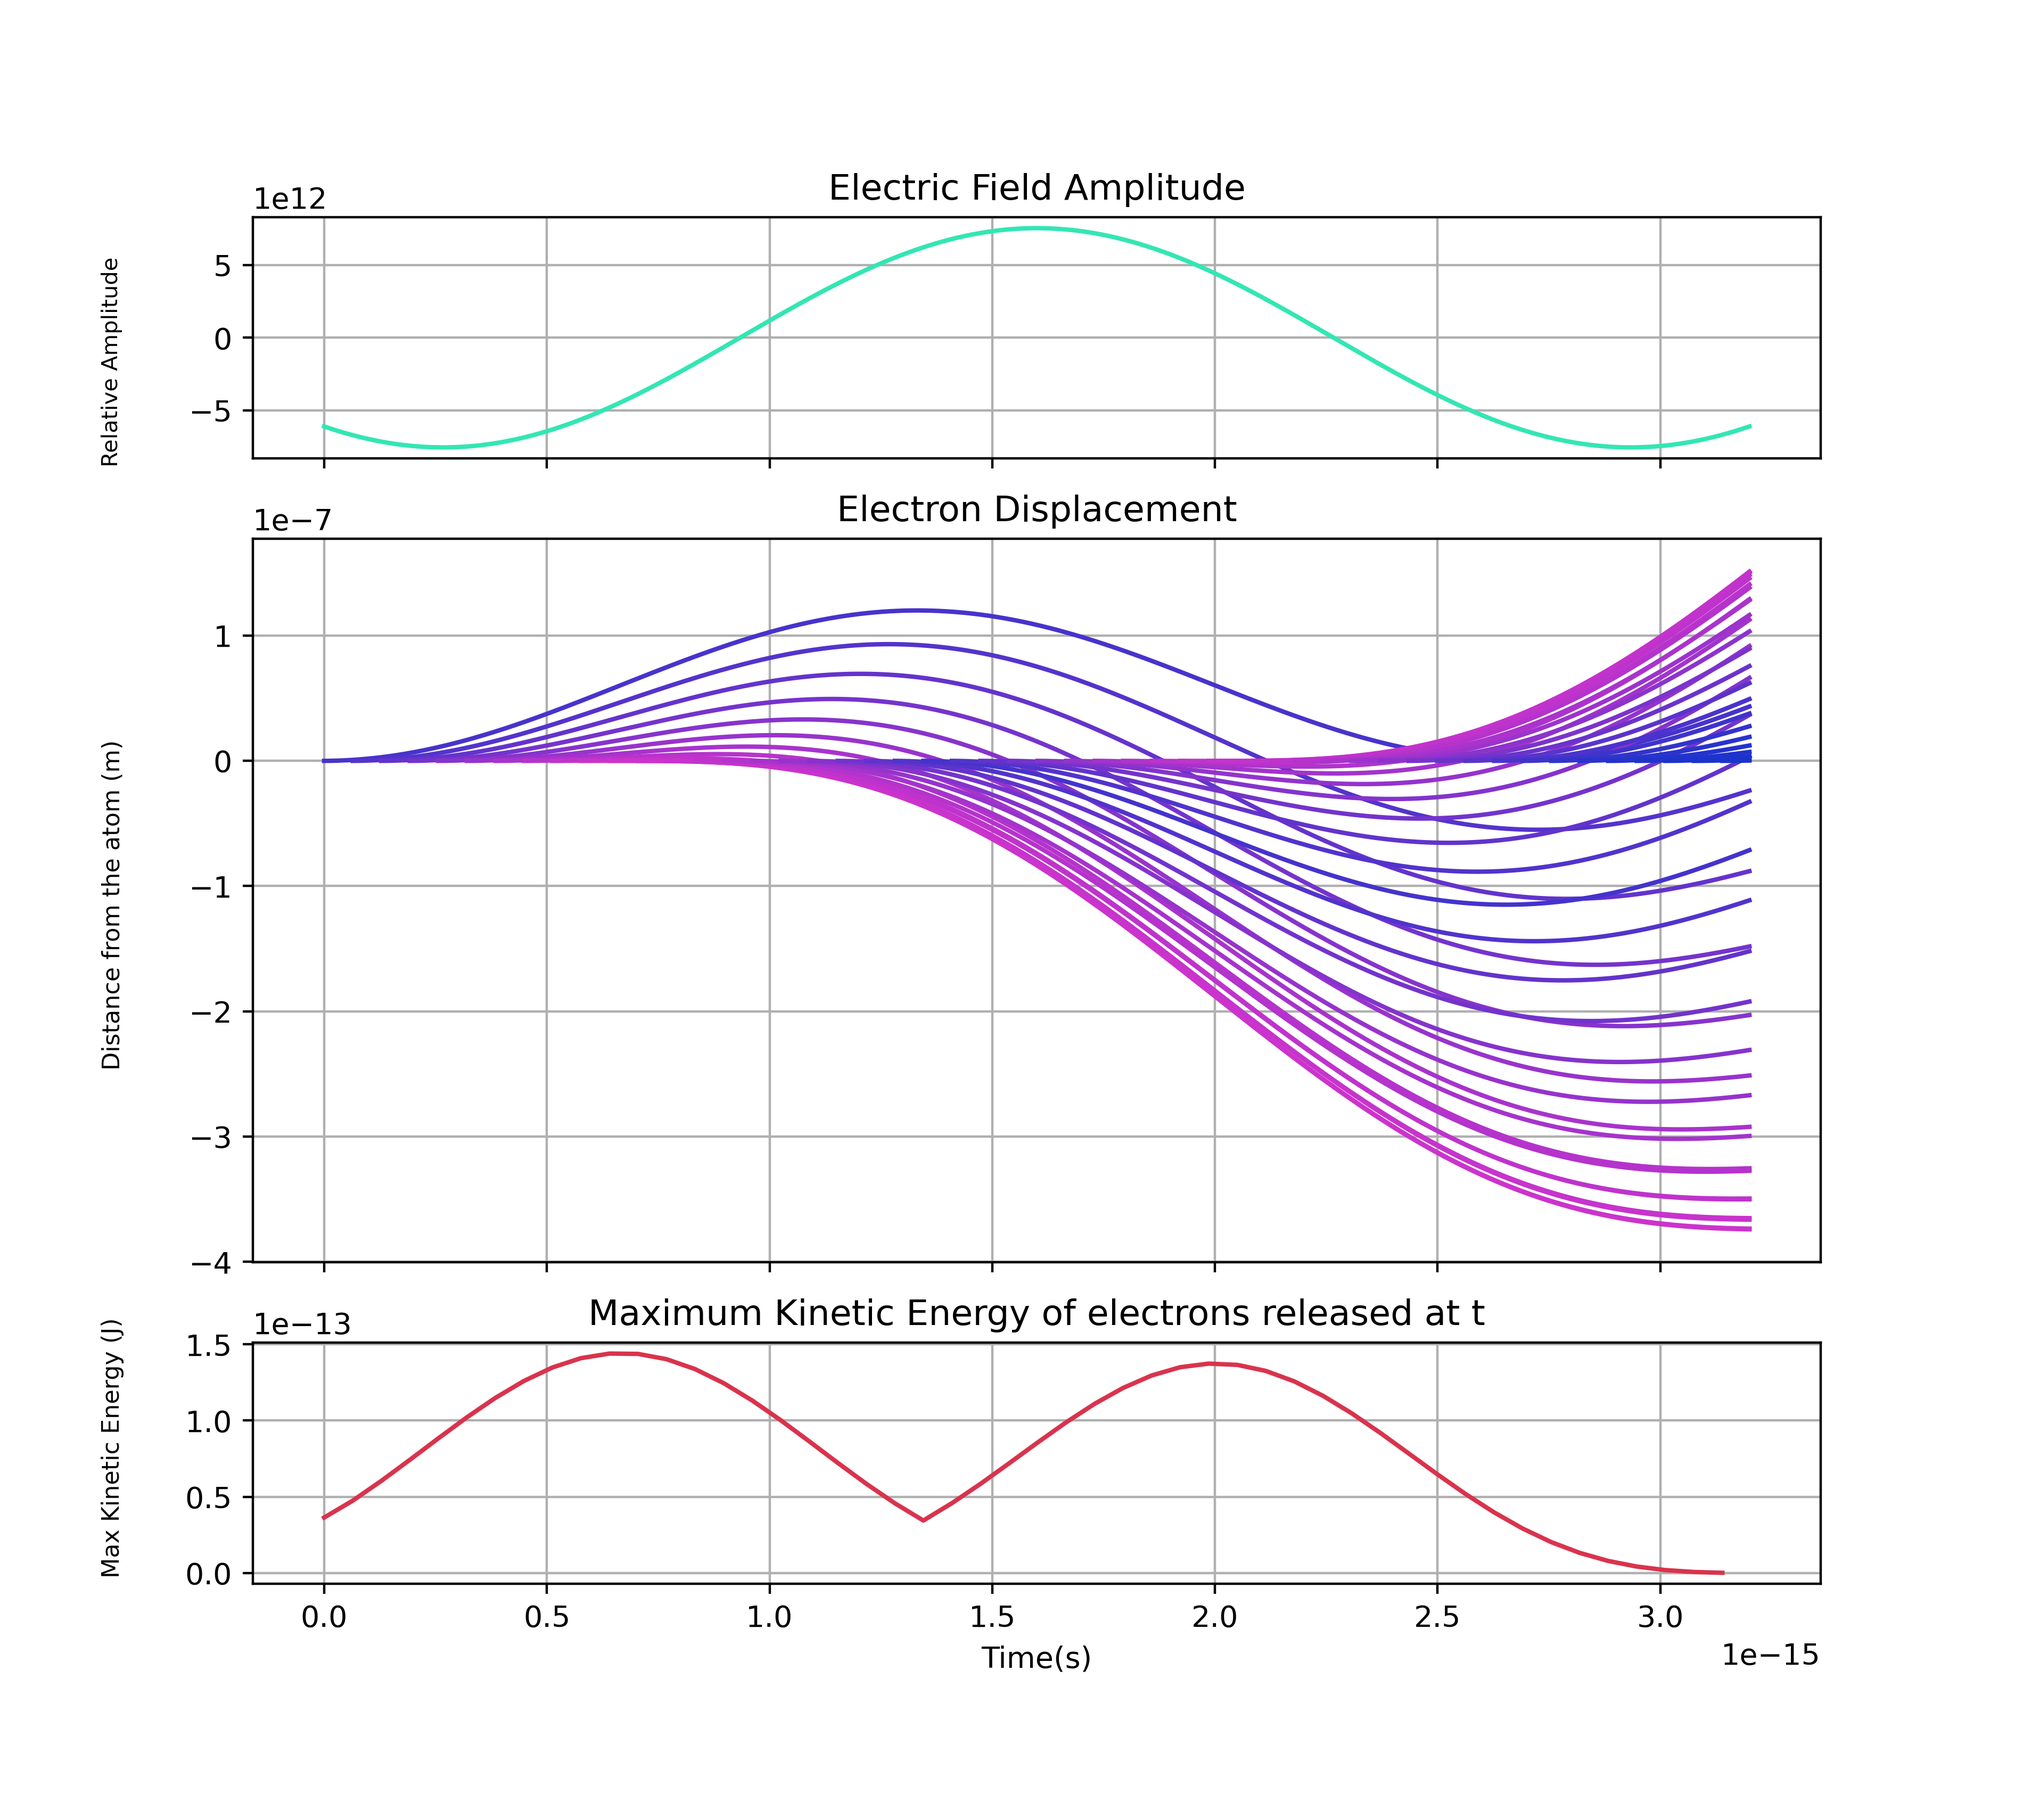
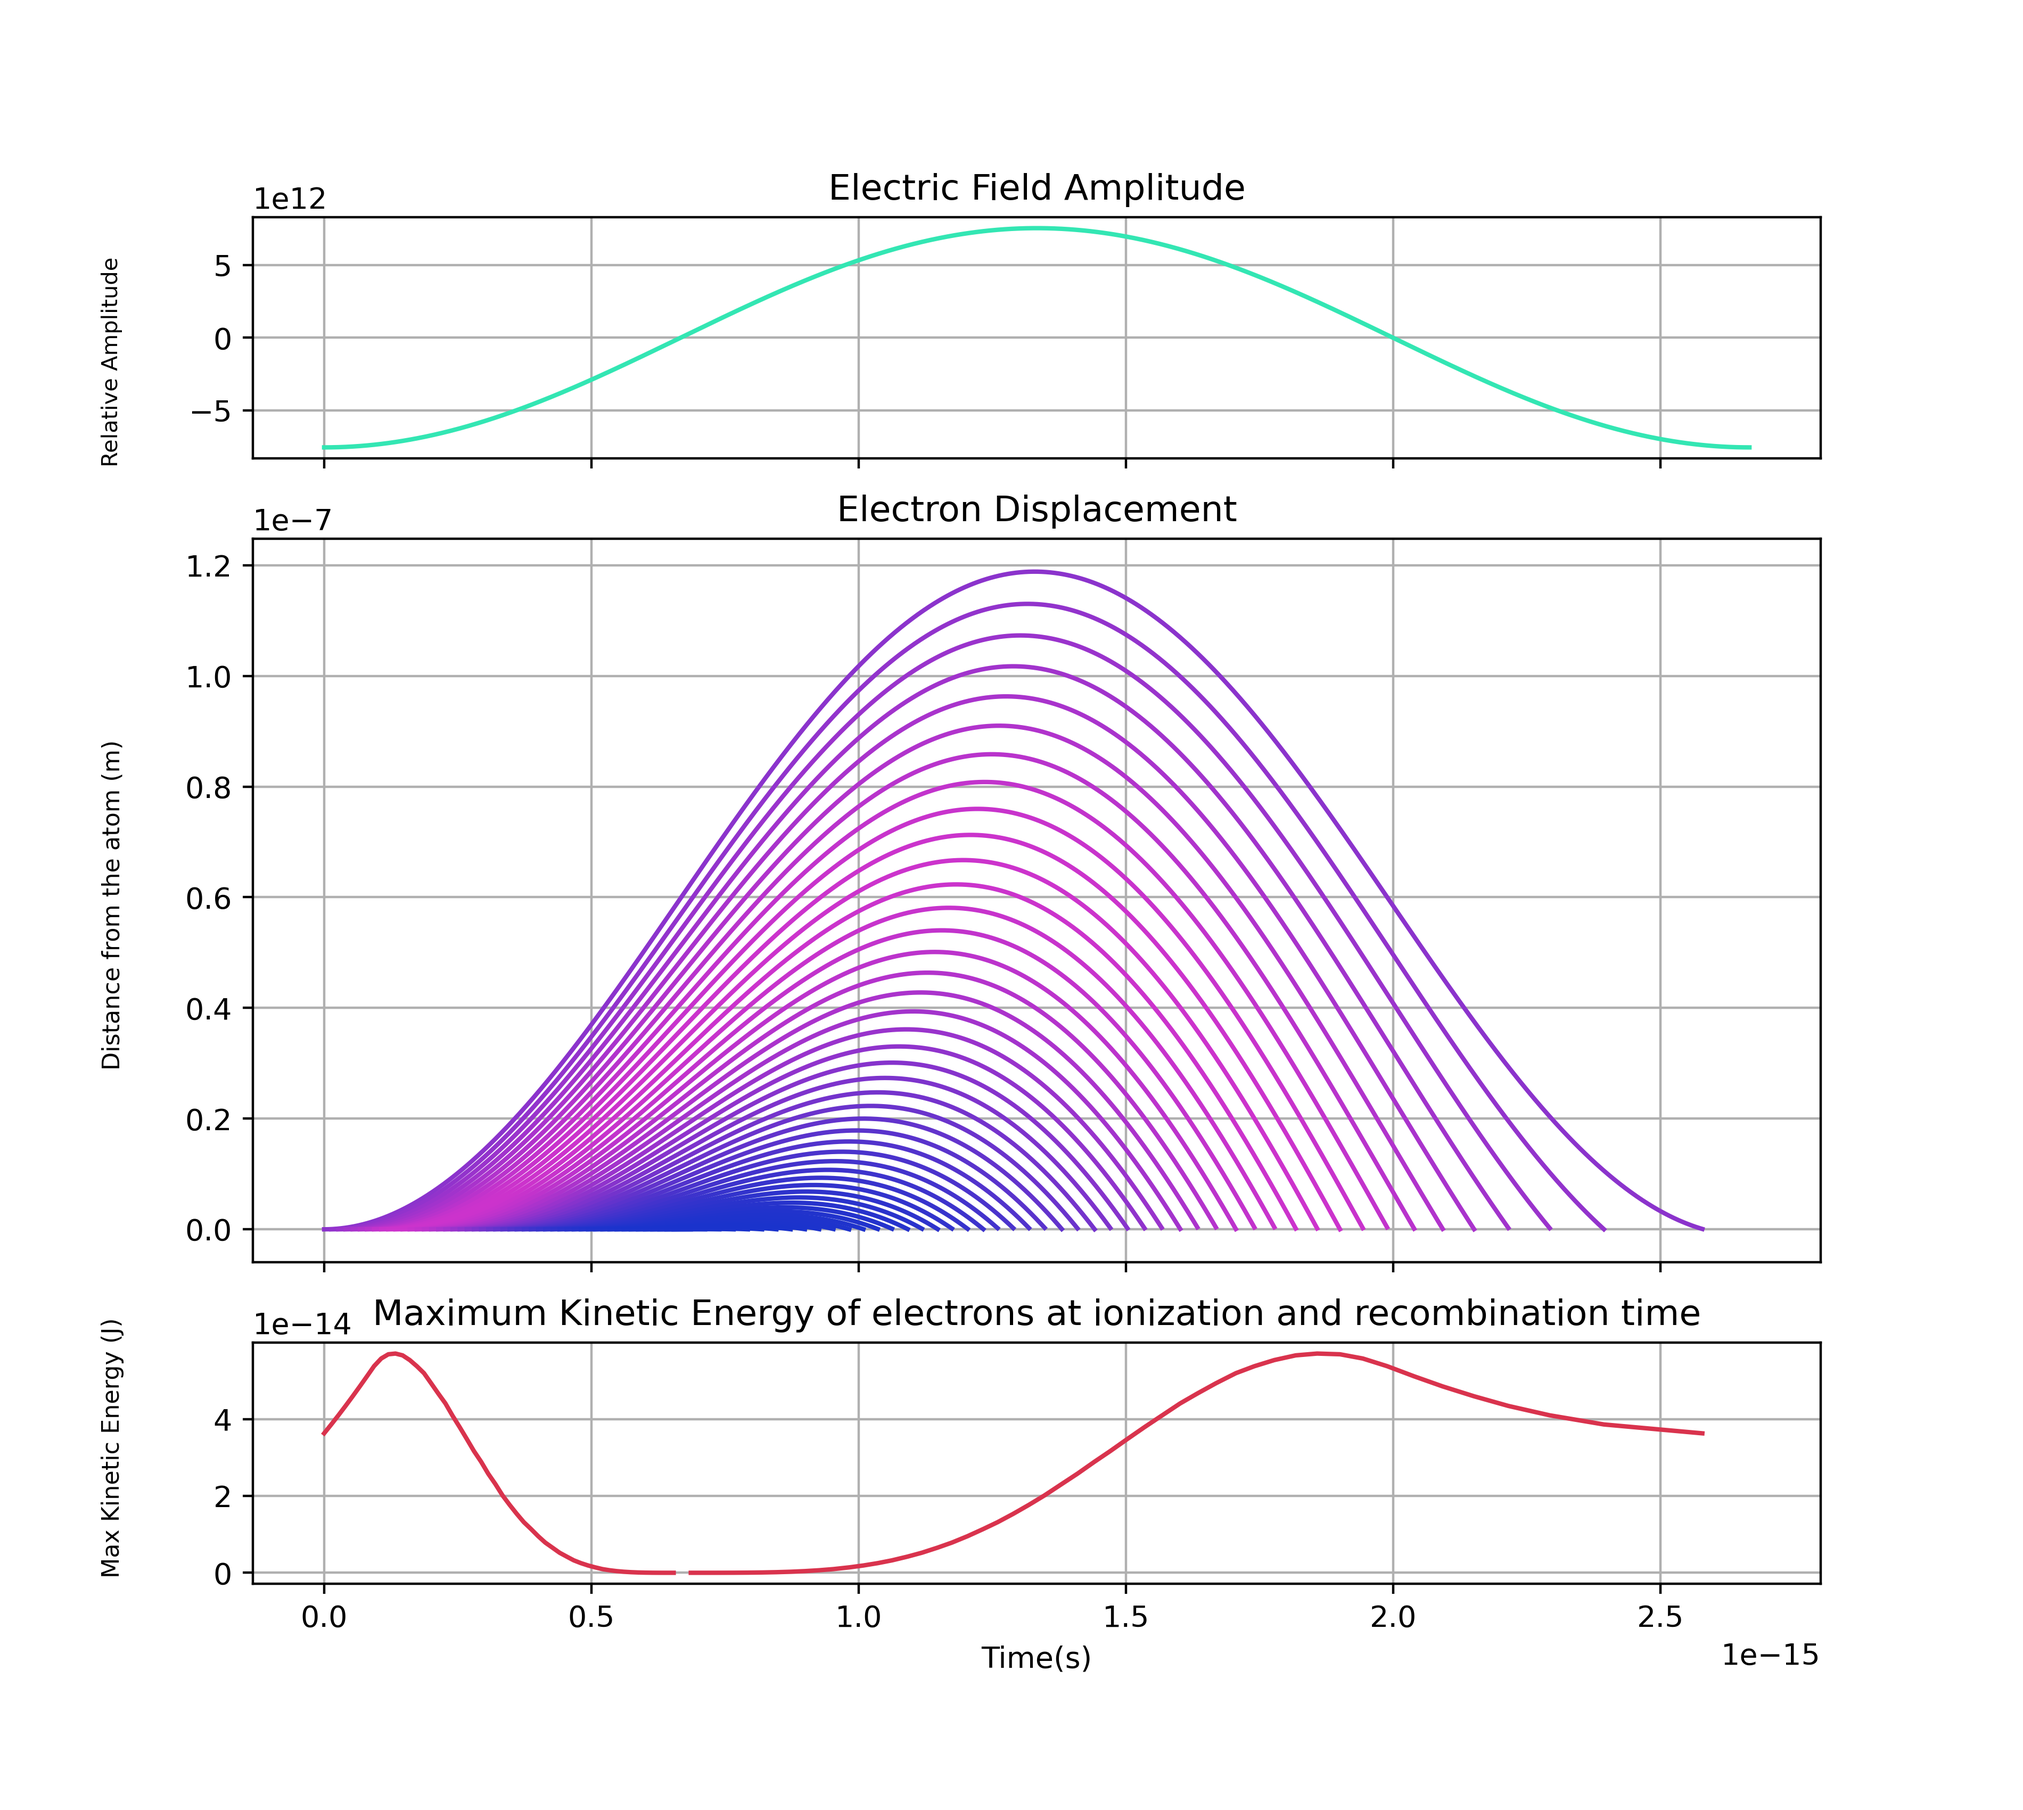
Kinetic Energy working

diff --git a/Kinetic_energy_works.py b/Kinetic_energy_works.py
@@ -11,7 +11,6 @@ The next step is to plot the kinetic energy in general depending on the moment w
 '''
 
 angular_v = 2*pi*(3*10**8)/(800*10**(-9)) # Most formulas use angular velocity, which is 2pi/lambda
-phase_i = pi*0.8# Very specific value for aesthetic reasons
 
 charge = -1.602176*10**(-19) # Coulombs
 mass = 9.1093837*10**(-31) # Kg
@@ -22,13 +21,13 @@ E_0 = (2*(1.2566*10**(-6)*(3*10**8)*Intensity)) # V/m
  
 
 
-
-n_wl = 1.2 # Number of full oscilations the electric field completes
-time = np.linspace(0,(2*pi*n_wl)/angular_v,1000) # All of the graphs share the same time
+precision_time = 1000 # Number of time points to plot
+n_wl = 1 # Number of full oscilations the electric field completes
+time = np.linspace(0,(2*pi*n_wl)/angular_v,precision_time) # All of the graphs share the same time
 dt = time[2] - time[1]
+phase_i = pi/2# Until what phase to plot
 
-
-energy = E_0*np.cos(angular_v*time + phase_i)
+E_t = -E_0*np.cos(angular_v*time)
 electrons = 50
 maximumK = np.zeros([electrons,2])
 lines = [i for i in range(electrons)]
@@ -36,61 +35,69 @@ lines = [i for i in range(electrons)]
 
 fig, axs = plt.subplots(3,1,sharex=True,gridspec_kw={'height_ratios': [1, 3,1]}) # Declare what Im going to plot
 fig.set_size_inches((9.5,8.5))
-axs[0].plot(time,energy,color=[0.2,0.9,0.7])
+axs[0].plot(time,E_t,color=[0.2,0.9,0.7])
 axs[0].grid()
-new = np.zeros([electrons,3])
+kinetic_graph = np.zeros([electrons,3])
 
 for i in range(electrons):
     
-     # Automatically increases the displacement of the initial electrons
-    timestart = (2*pi*n_wl*i)/(angular_v*electrons)
-    print(timestart)
-    time_electron = time[time >= timestart]
-    energy = E_0*np.cos(angular_v*time_electron)
+      # Automatically increases the displacement of the initial electrons
+    timestart = np.where(time >= (i/electrons)*(phase_i/(n_wl*2*pi))*time[-1])[0][0] # What position in the time array is the starting time
+    # print(timestart)
+    time_electron = time[timestart:]
+    energy = E_t[timestart:]
     
 
-    acceleration = -charge*energy/mass
+    acceleration = charge*energy/mass
     velocity = np.zeros(len(acceleration))
     position = np.zeros(len(acceleration))
     kinetic = np.zeros(len(acceleration))
     
     '''
-    Numerically integrate Newtons equations of motion for every point
+    Numerically integrate Newton's equations of motion for every point
     '''
     
     for pos,val in enumerate(acceleration):
         if pos == 0:
             pass
-        
-        velocity[pos] = (val*dt)/2 + velocity[pos-1]
-        position[pos] = (velocity[pos]*dt)/2 + position[pos-1]
-        kinetic[pos] = 0.5*mass*velocity[pos]**2
+        else:
+            velocity[pos] = (val*dt)/2 + velocity[pos-1] # This is technically slightly wrong but womp womp
+            position[pos] = (velocity[pos]*dt)/2 + position[pos-1]
+            kinetic[pos] = 0.5*mass*velocity[pos]**2
     
     
     
     for pos,val in enumerate(position): # Find the kinetic energy when it recombines
-        if pos == 0:
+        if pos == 0 or pos == 1:
             pass
-        if cps(1,val) + cps(1,position[pos-1]) == 0: # This breaks if the electron goes past the 0 point more than once (I think)
-            break
+        else:
+            if cps(1,val) + cps(1,position[pos-1]) == 0: # This breaks if the electron goes past the 0 point more than once (I think)
+                # print(val)
+                position = position[:pos]
+                time_electron = time_electron[:pos]
+                energy = energy[:pos]
+                kinetic = kinetic[:pos]
+                
+                break
 
     maximumK[i]= [max(kinetic),time_electron[0]]
     
-    # time_electron = time_electron[position>0]
-    # energy = energy[position>0]
-    # position = position[position>0]
-    
     lines[i]  = axs[1].plot(time_electron,position) # Store the lines so you can change the colour depending on kinetic energy
     
+    kinetic_graph[i,0] = time_electron[0]
+    kinetic_graph[i,1] = time_electron[-1]
+    kinetic_graph[i,2] = maximumK[i,0]
+        
 
-print(kinetic)
+# print(kinetic_graph)
 '''
-Need to create an array that stores the position the electron is released and it's max kinetic energy
+Need to create an array that stores the position the electron is released and it's max kinetic energye
 '''
 
 # for i in range(kinetic):
 #     axs[1].plot(kinetic,time)
-axs[2].plot(maximumK[:,1],maximumK[:,0],color=[0.85,0.2,0.3])
+axs[2].plot(kinetic_graph[:,0],kinetic_graph[:,2],color=[0.85,0.2,0.3])
+axs[2].plot(kinetic_graph[:,1],kinetic_graph[:,2],color=[0.85,0.2,0.3])
 
 maximumK = maximumK[:,0]
 biggestK = max(maximumK)
@@ -103,7 +110,7 @@ for i in range(electrons):
     
 axs[0].set_title('Electric Field Amplitude')
 axs[1].set_title('Electron Displacement')
-axs[2].set_title('Maximum Kinetic Energy of electrons released at t')
+axs[2].set_title('Maximum Kinetic Energy of electrons at ionization and recombination time')
 axs[2].grid()
 
 fig.text(0.05, 0.8, 'Relative Amplitude',fontsize=7.5,va='center', rotation='vertical')
@@ -114,4 +121,3 @@ axs[1].grid()
 plt.xlabel('Time(s)')
 # plt.ylabel('Distance of the electron from the nucleus (m)')
 plt.savefig('/home/alex/Desktop/Python/Atto/Plots/kineticplot.png',dpi=400)
-
